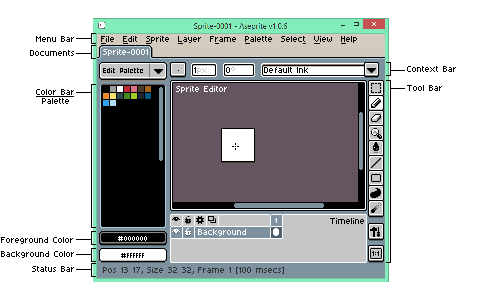
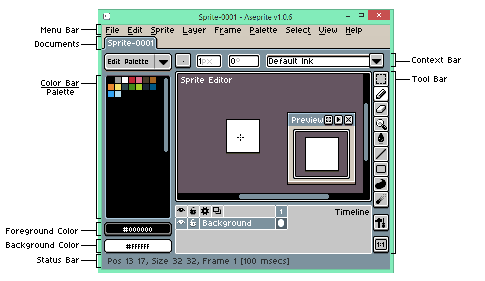
Add some information about the Preview window

diff --git a/workspace.md b/workspace.md
@@ -2,11 +2,12 @@
 
 You should be familiar with the names of the window elements:
 
-![Workspace Screenshot](workspace/screen.png)
+<img src="/docs/workspace/screen.png" alt="Workspace Screenshot" class="xN" />
 
 The most important elements are the
 [sprite editor](sprite-editor.md), the
-[timeline](timeline.md), and the [color bar](color-bar.md).
+[timeline](timeline.md), the [color bar](color-bar.md),
+and the [preview window](preview-window.md).
 
 The timeline is not visible by default, you can make it visible from
 *View > Timeline* menu option or pressing `Tab` key. (Also it popups

diff --git a/preview-window.md b/preview-window.md
@@ -1,0 +1,15 @@
+# Preview Window
+
+The preview window is the little window that can show you the
+animation preview in realtime while you edit your animation:
+
+<img src="/docs/preview-window/preview-window.png" alt="Preview Window" class="xN" />
+
+You can show/hide this window pressing the `F7` key or with the *View > Preview* menu option.
+
+---
+
+**SEE ALSO**
+
+[Workspace](workspace.md) |
+[Animation](animation.md)
